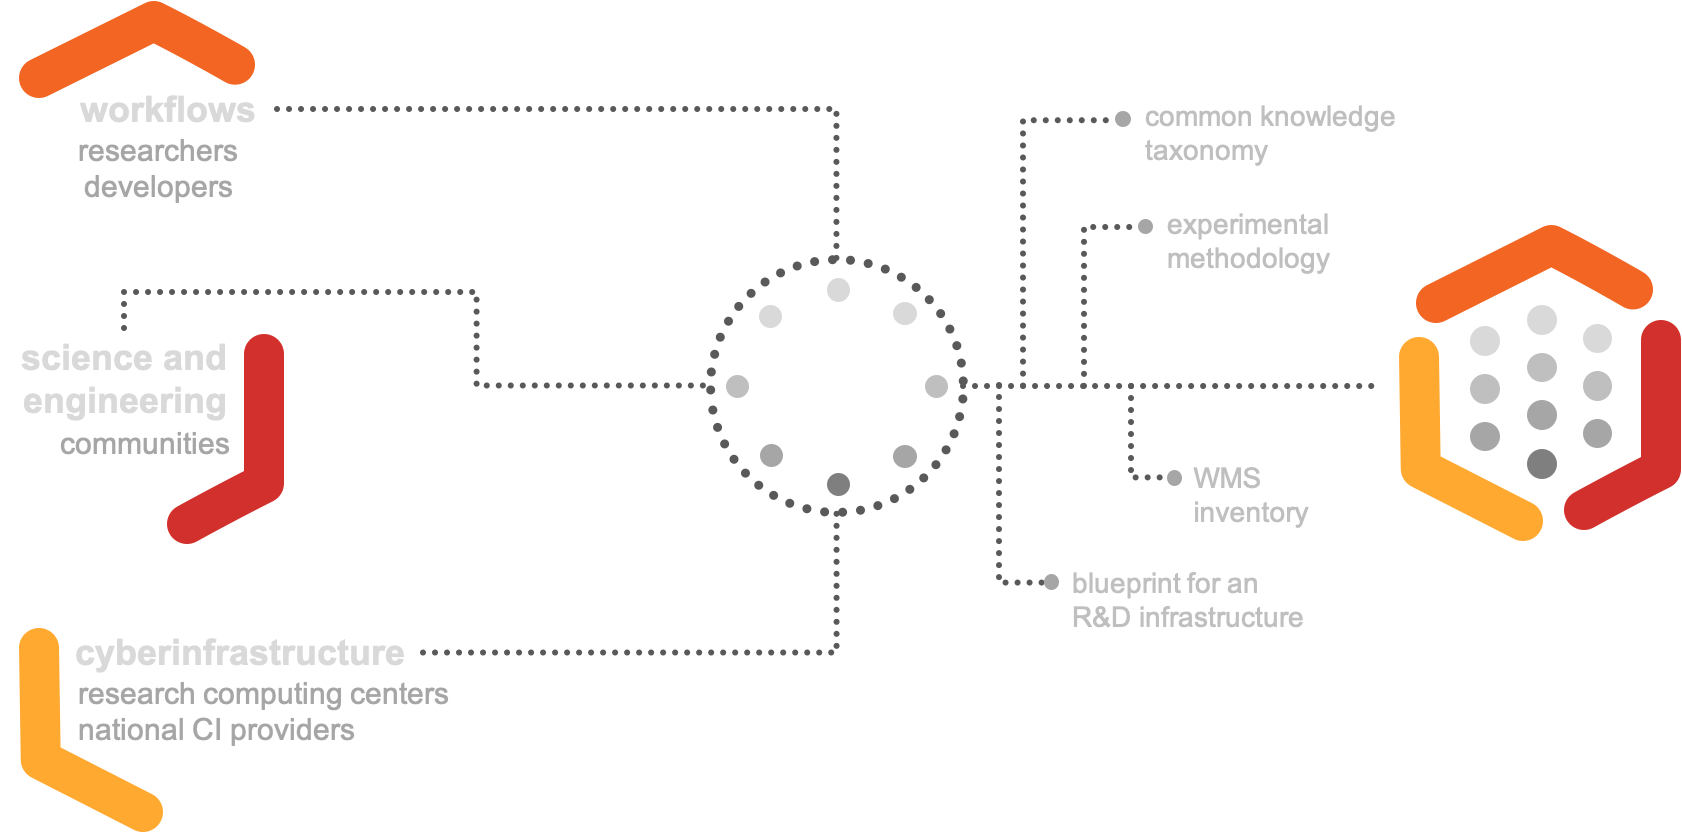
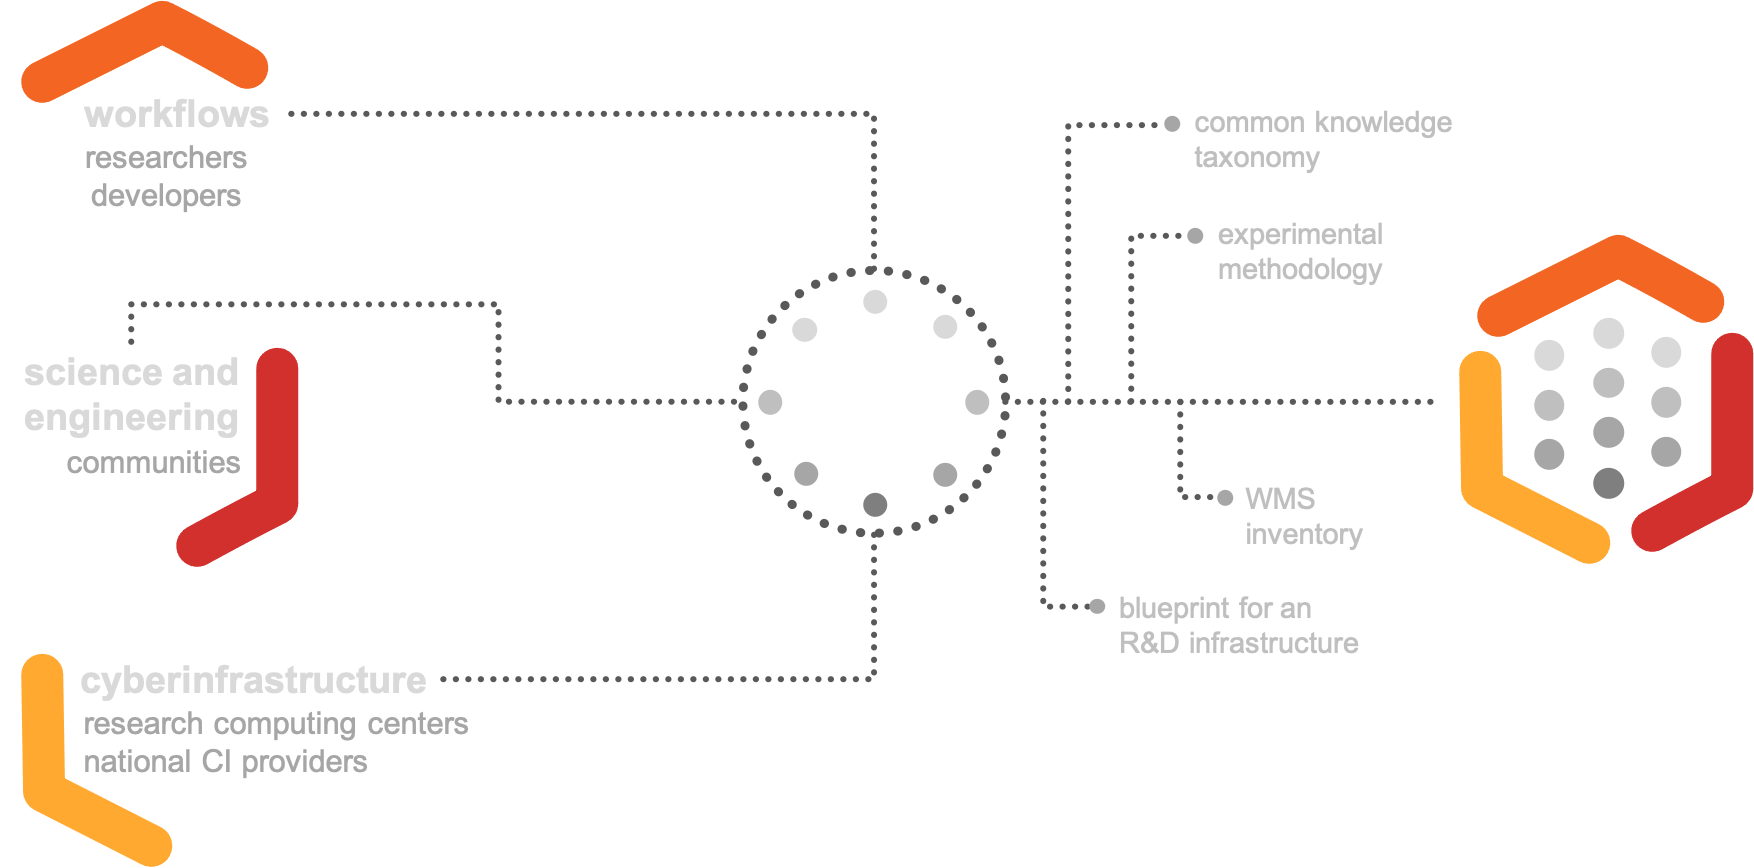
updates

diff --git a/_layouts/home.html b/_layouts/home.html
@@ -3,10 +3,10 @@ layout: page
 ---
 
 <div class="concept">
-    <img src="/assets/images/workflowsri-concept.png"/>
+    <img src="/assets/images/workflowsri-concept.png" style="max-width: 90%; margin: 0"/>
 </div>
 
-<div>
+<div style="line-height: 1.5em">
     <p>
         The goal of the <strong>workflows<span class="RI">RI</span></strong> project is to engage with representatives
         from the <strong>workflows
@@ -15,7 +15,7 @@ layout: page
     </p>
 
     <p>
-        Through targeted community surveys and focused workshops, the project will gather a diverse set of perspectives,
+        Through targeted community surveys and focused summits, the project will gather a diverse set of perspectives,
         create a community-owned WMS inventory and common knowledge taxonomy, define an experimental methodology for
         measuring WMS capabilities, and develop a blueprint for a community research infrastructure.
     </p>

diff --git a/_includes/sidebar.html b/_includes/sidebar.html
@@ -37,6 +37,9 @@
     <a href="https://www.youtube.com/channel/UCqCnXqWqKe9vF6cqKOj1CYw" target="_blank">
         <i class="fab fa-youtube"></i>
     </a>
+    <a href="mailto:leadership@workflowsri.org">
+        <i class="fas fa-envelope"></i>
+    </a>
 
     {% for entry in site.data.contact %}
     {% capture url %}

diff --git a/assets/css/_addon/main.scss b/assets/css/_addon/main.scss
@@ -1682,7 +1682,7 @@ div.post-content .table-wrapper {
 }
 
 .concept {
-  margin: 3em 0em !important;
+  margin: 1.5em 0em !important;
 }
 
 .concept img {
